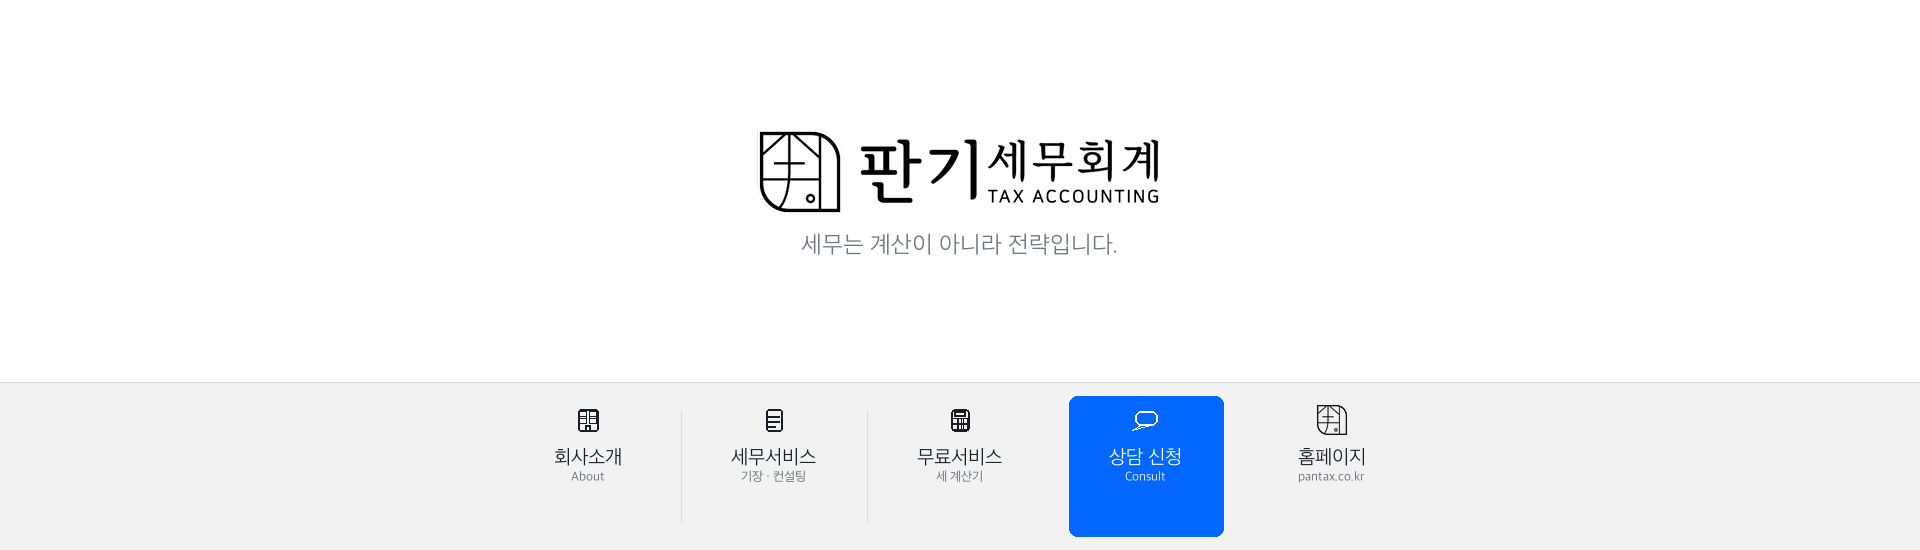
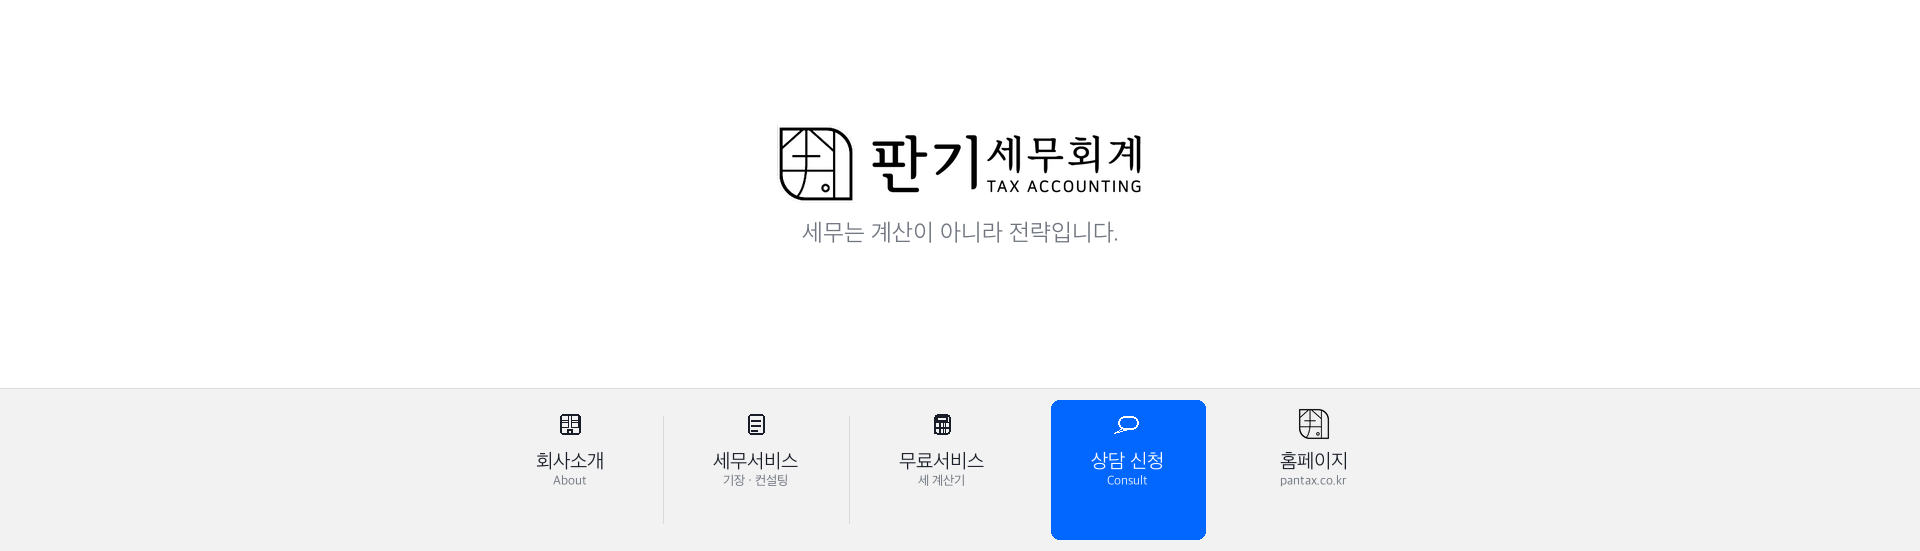
블로그 상단 버튼을 위젯 위치에 맞춰 다시 올립니다.

diff --git a/assets/blog/widgets.html b/assets/blog/widgets.html
@@ -1,17 +1,17 @@
-<!-- 네이버 블로그 관리 → 꾸미기 설정 → 위젯 추가 → HTML
-     위젯 5개를 상단 배너 위에 가로로 붙입니다. 너비 170, 높이 550. -->
+<!-- 위젯 직접 등록. 크기 170x163. 레이아웃: 타이틀 → 메뉴 → 1 2 3 4 5 -->
+<!-- 타이틀 높이 300 -->
 
 <!-- 1. 회사소개 -->
-<a href="https://pantax.co.kr/about/" target="_top"><img src="https://blogimgs.pstatic.net/nblog/spc.gif" width="170" height="550" border="0" alt="회사소개"></a>
+<a href="https://pantax.co.kr/about/" target="_top"><img src="https://blogimgs.pstatic.net/nblog/spc.gif" width="170" height="163" border="0" alt="회사소개"></a>
 
 <!-- 2. 세무서비스 -->
-<a href="https://pantax.co.kr/services/" target="_top"><img src="https://blogimgs.pstatic.net/nblog/spc.gif" width="170" height="550" border="0" alt="세무서비스"></a>
+<a href="https://pantax.co.kr/services/" target="_top"><img src="https://blogimgs.pstatic.net/nblog/spc.gif" width="170" height="163" border="0" alt="세무서비스"></a>
 
 <!-- 3. 무료서비스 -->
-<a href="https://pantax.co.kr/tools/" target="_top"><img src="https://blogimgs.pstatic.net/nblog/spc.gif" width="170" height="550" border="0" alt="무료서비스"></a>
+<a href="https://pantax.co.kr/tools/" target="_top"><img src="https://blogimgs.pstatic.net/nblog/spc.gif" width="170" height="163" border="0" alt="무료서비스"></a>
 
 <!-- 4. 상담 신청 -->
-<a href="https://pantax.co.kr/consult/" target="_top"><img src="https://blogimgs.pstatic.net/nblog/spc.gif" width="170" height="550" border="0" alt="상담 신청"></a>
+<a href="https://pantax.co.kr/consult/" target="_top"><img src="https://blogimgs.pstatic.net/nblog/spc.gif" width="170" height="163" border="0" alt="상담 신청"></a>
 
 <!-- 5. 홈페이지 -->
-<a href="https://pantax.co.kr/" target="_top"><img src="https://blogimgs.pstatic.net/nblog/spc.gif" width="170" height="550" border="0" alt="홈페이지"></a>
+<a href="https://pantax.co.kr/" target="_top"><img src="https://blogimgs.pstatic.net/nblog/spc.gif" width="170" height="163" border="0" alt="홈페이지"></a>
